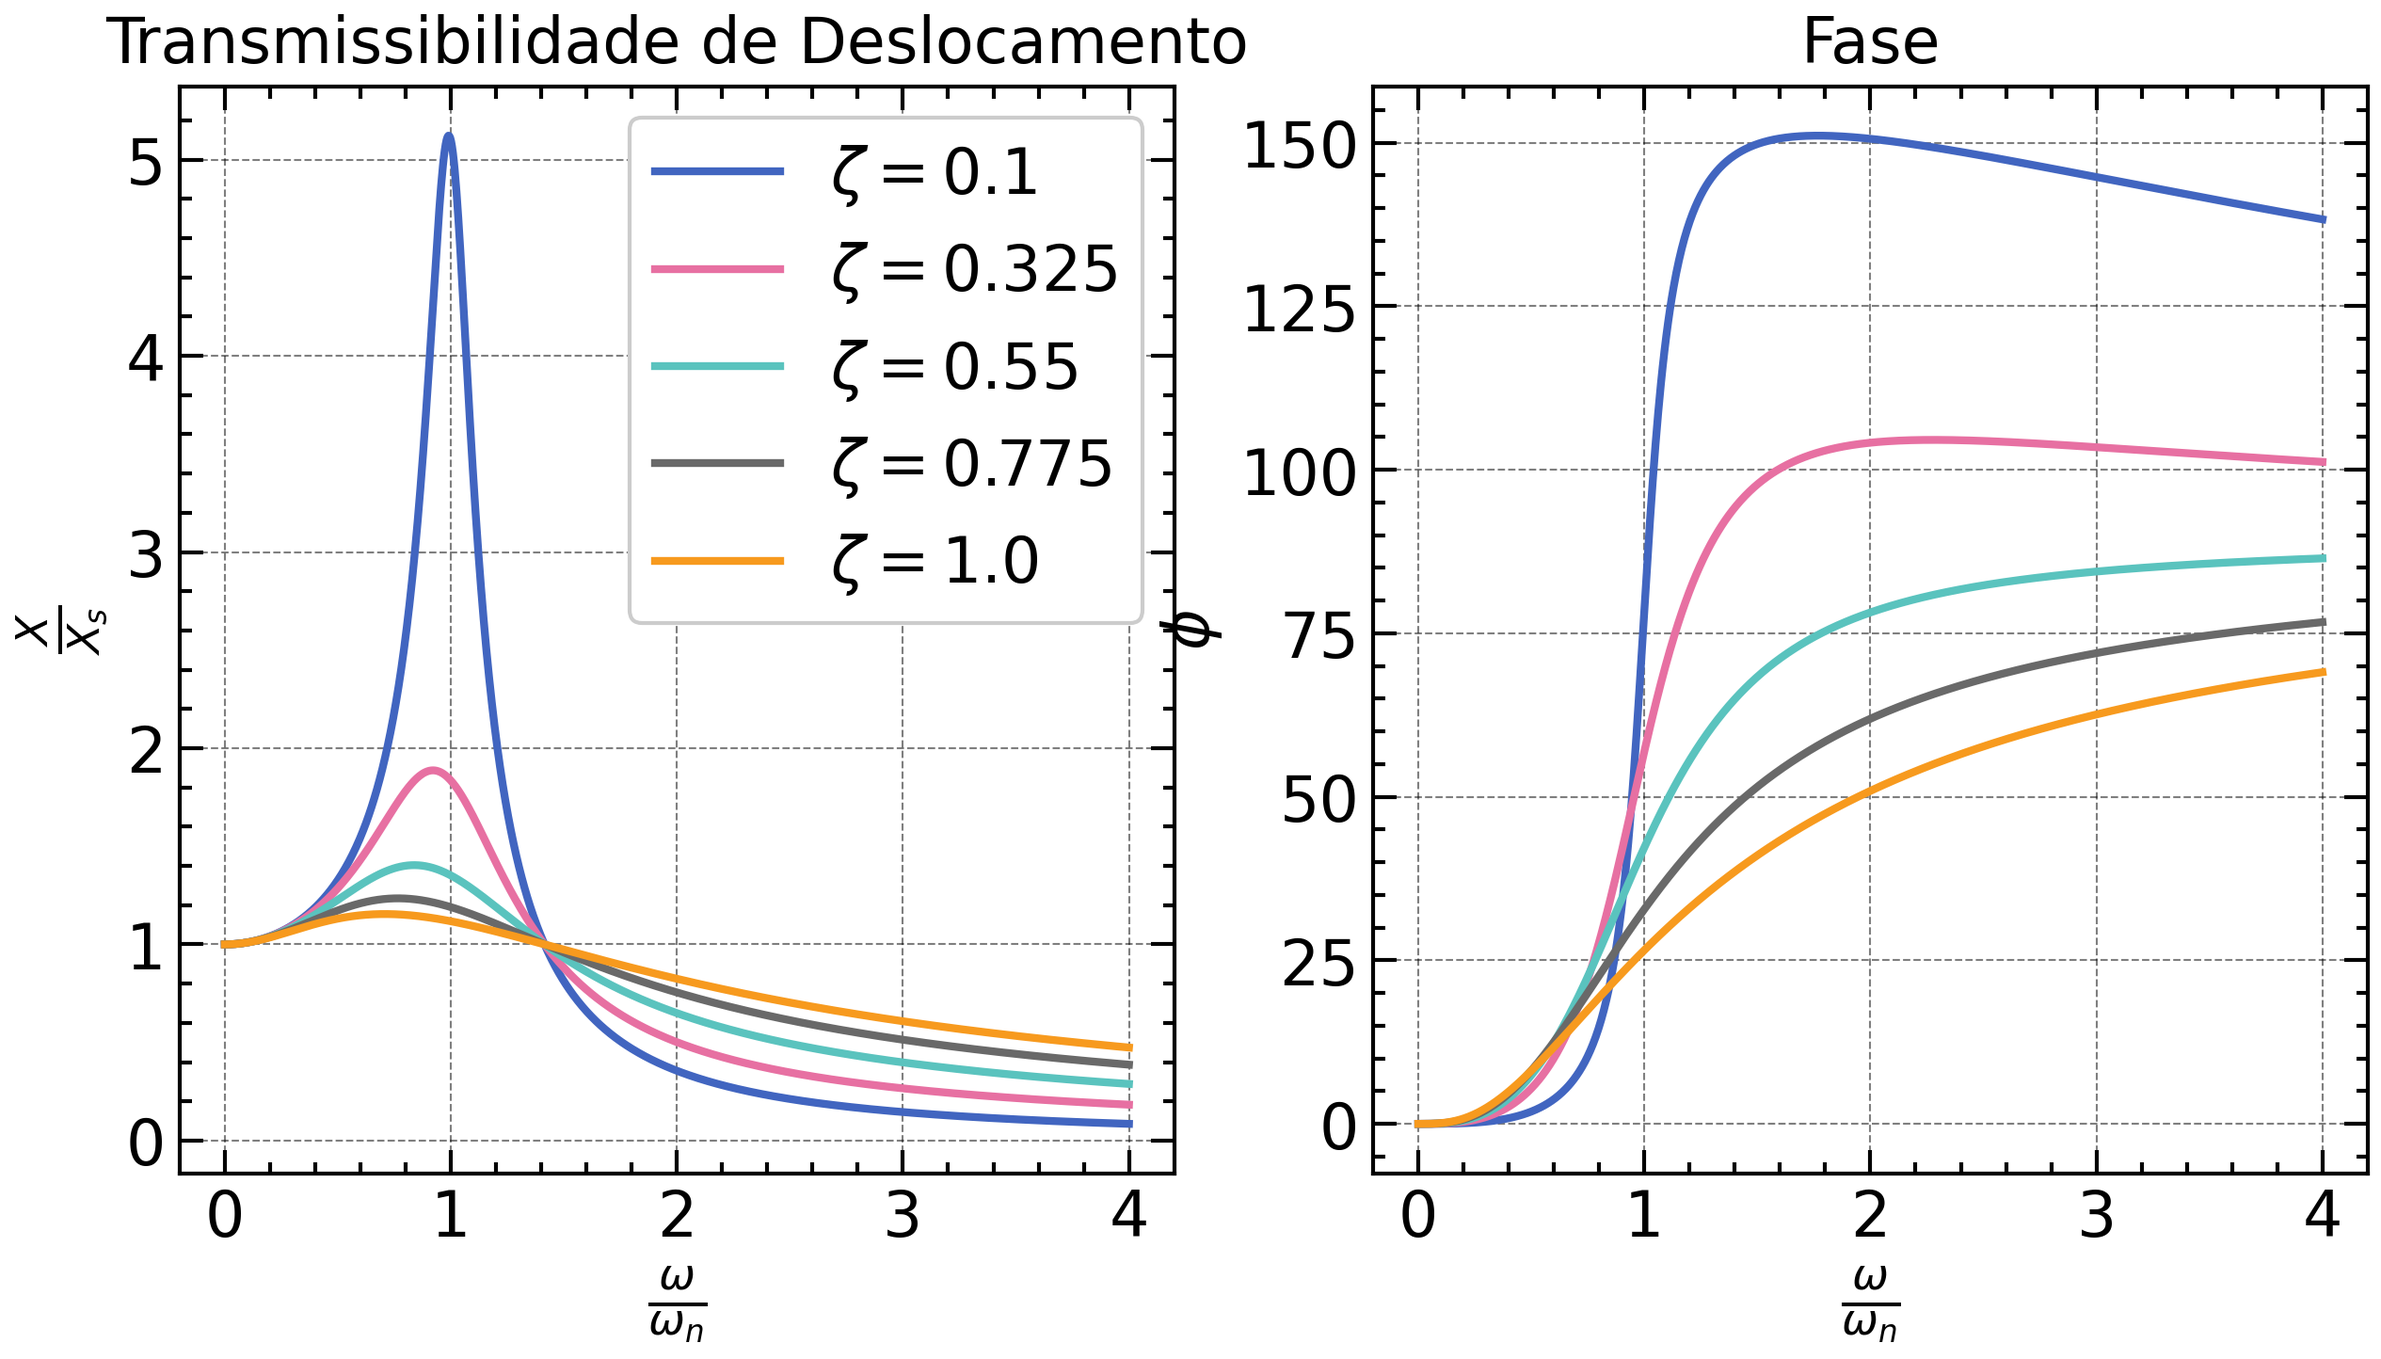
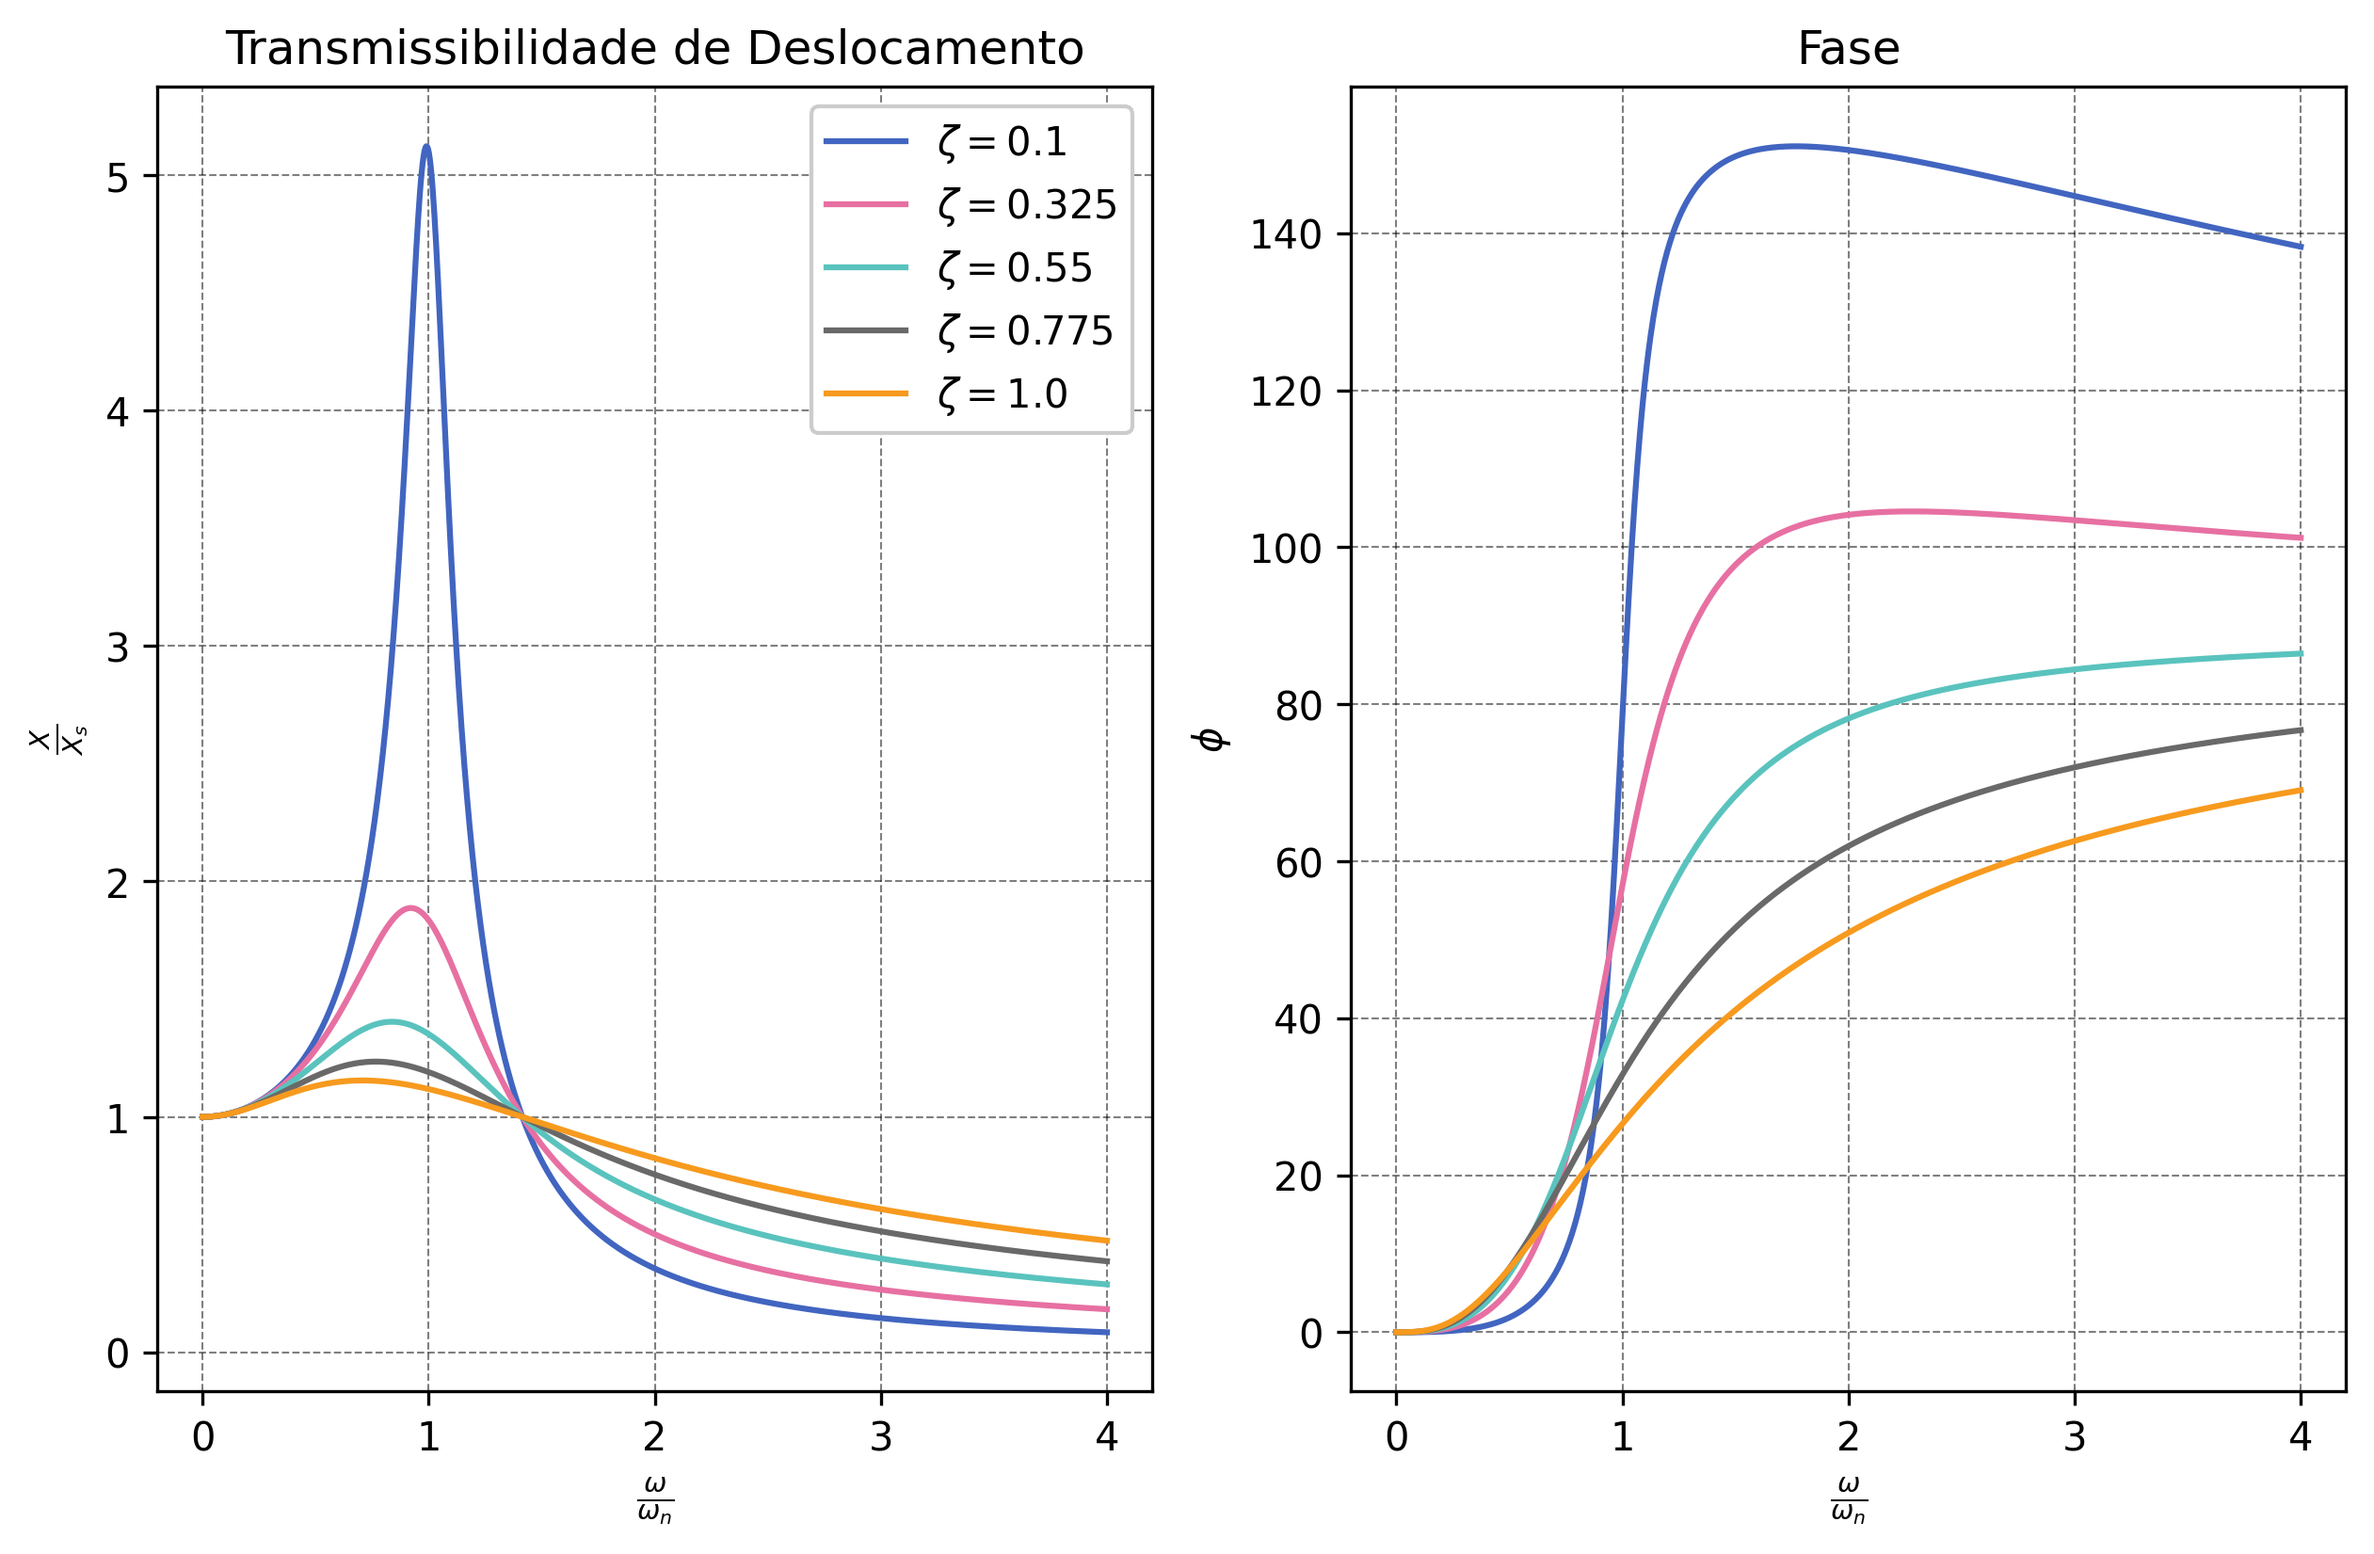
.

diff --git a/transmissibility_quarter_car.py b/transmissibility_quarter_car.py
@@ -1,0 +1,46 @@
+import control as ct
+import numpy as np
+import matplotlib.pyplot as plt
+import scienceplots
+
+
+plt.style.use([
+    'grid',
+    'retro'
+])
+
+
+wn     = 2.86986454420447
+wn_hat = 8.6095936326134
+
+zeta = np.linspace(.1, 1, 4)
+
+s = ct.tf('s')
+
+mags = []
+phases = []
+omegas = []
+
+fig, ax = plt.subplots(2, 1, figsize=(6.4, 4.8), dpi=200)
+
+for z in zeta:
+    G1 = wn_hat**2 / (s**2 + wn_hat**2)
+    G2 = (2*z*wn*s + wn**2) / (s**2 + 2*z*wn*s + wn**2)
+
+    G = G1*G2
+    mag, phase, omega = ct.bode(G, plot=False)
+    
+    ax[0].loglog(omega, mag, label=f'$\\zeta={z:.1f}$')
+    ax[1].semilogx(omega, np.rad2deg(phase), label=f'$\\zeta={z:.1f}$')
+
+    # remove x label ax[0]
+    ax[0].set_xlabel('')
+    ax[0].set_xticklabels([])
+    ax[0].set_ylabel('Magnitude (dB)')
+
+    ax[1].set_xlabel('Frequency (rad/s)')
+    ax[1].set_ylabel('Phase (deg)')
+    ax[1].set_yticks([-180, -90, 0, 90, 180])
+
+ax[0].legend()
+plt.show()
